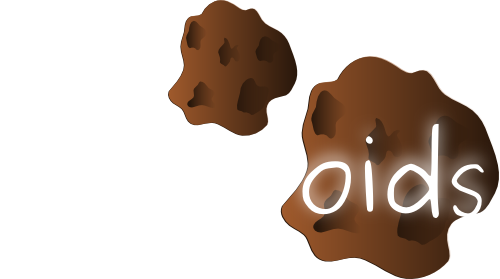
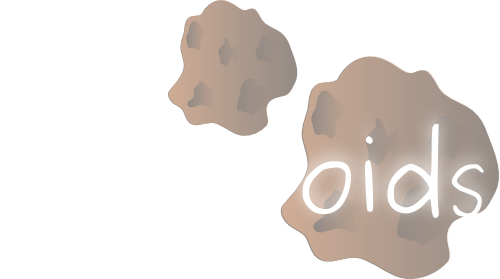
Load bkgds in time to be drawn in intro

diff --git a/tuxmath/src/factoroids.c b/tuxmath/src/factoroids.c
@@ -602,6 +602,19 @@ static int FF_init(void)
    */
   SDL_WM_GrabInput(SDL_GRAB_ON);
 
+  /********   Set up properly scaled and optimized background surfaces: *********/
+  /* NOTE - optimization code moved into LoadBothBkgds() so rest of program     */
+  /* can take advantage of it - DSB                                             */
+
+  T4K_LoadBothBkgds("factoroids/gbstars.png", &scaled_bkgd, &bkgd);
+
+  if (bkgd == NULL || scaled_bkgd == NULL)
+  {
+    fprintf(stderr,
+       "\nError: could not scale background\n");
+    return 0;
+  }
+
   FF_intro();
 
   if(screen->h < 600 && screen->w < 800)
@@ -750,7 +763,6 @@ static void FF_intro(void)
   static SDL_Surface* IMG_factors;
   static SDL_Surface* IMG_fractions;
 
-//  SDL_Event event;
   SDL_Rect rect;
 
   float zoom;
@@ -770,7 +782,6 @@ static void FF_intro(void)
     rect.x = (screen->w/2) - (IMG_factors->w/2);
     rect.y = (screen->h)/7;
     SDL_BlitSurface(IMG_factors, NULL, screen, &rect);
-//    FF_ShowMessage(_("To win, you need destroy all the asteroids.\n"));
     FF_ShowMessage(_("To win, you must destroy all the asteroids.\n"
 		     "Turn: arrow keys or mouse movement.\n"
 		     "Thrust: up arrow or right mouse button.\n"